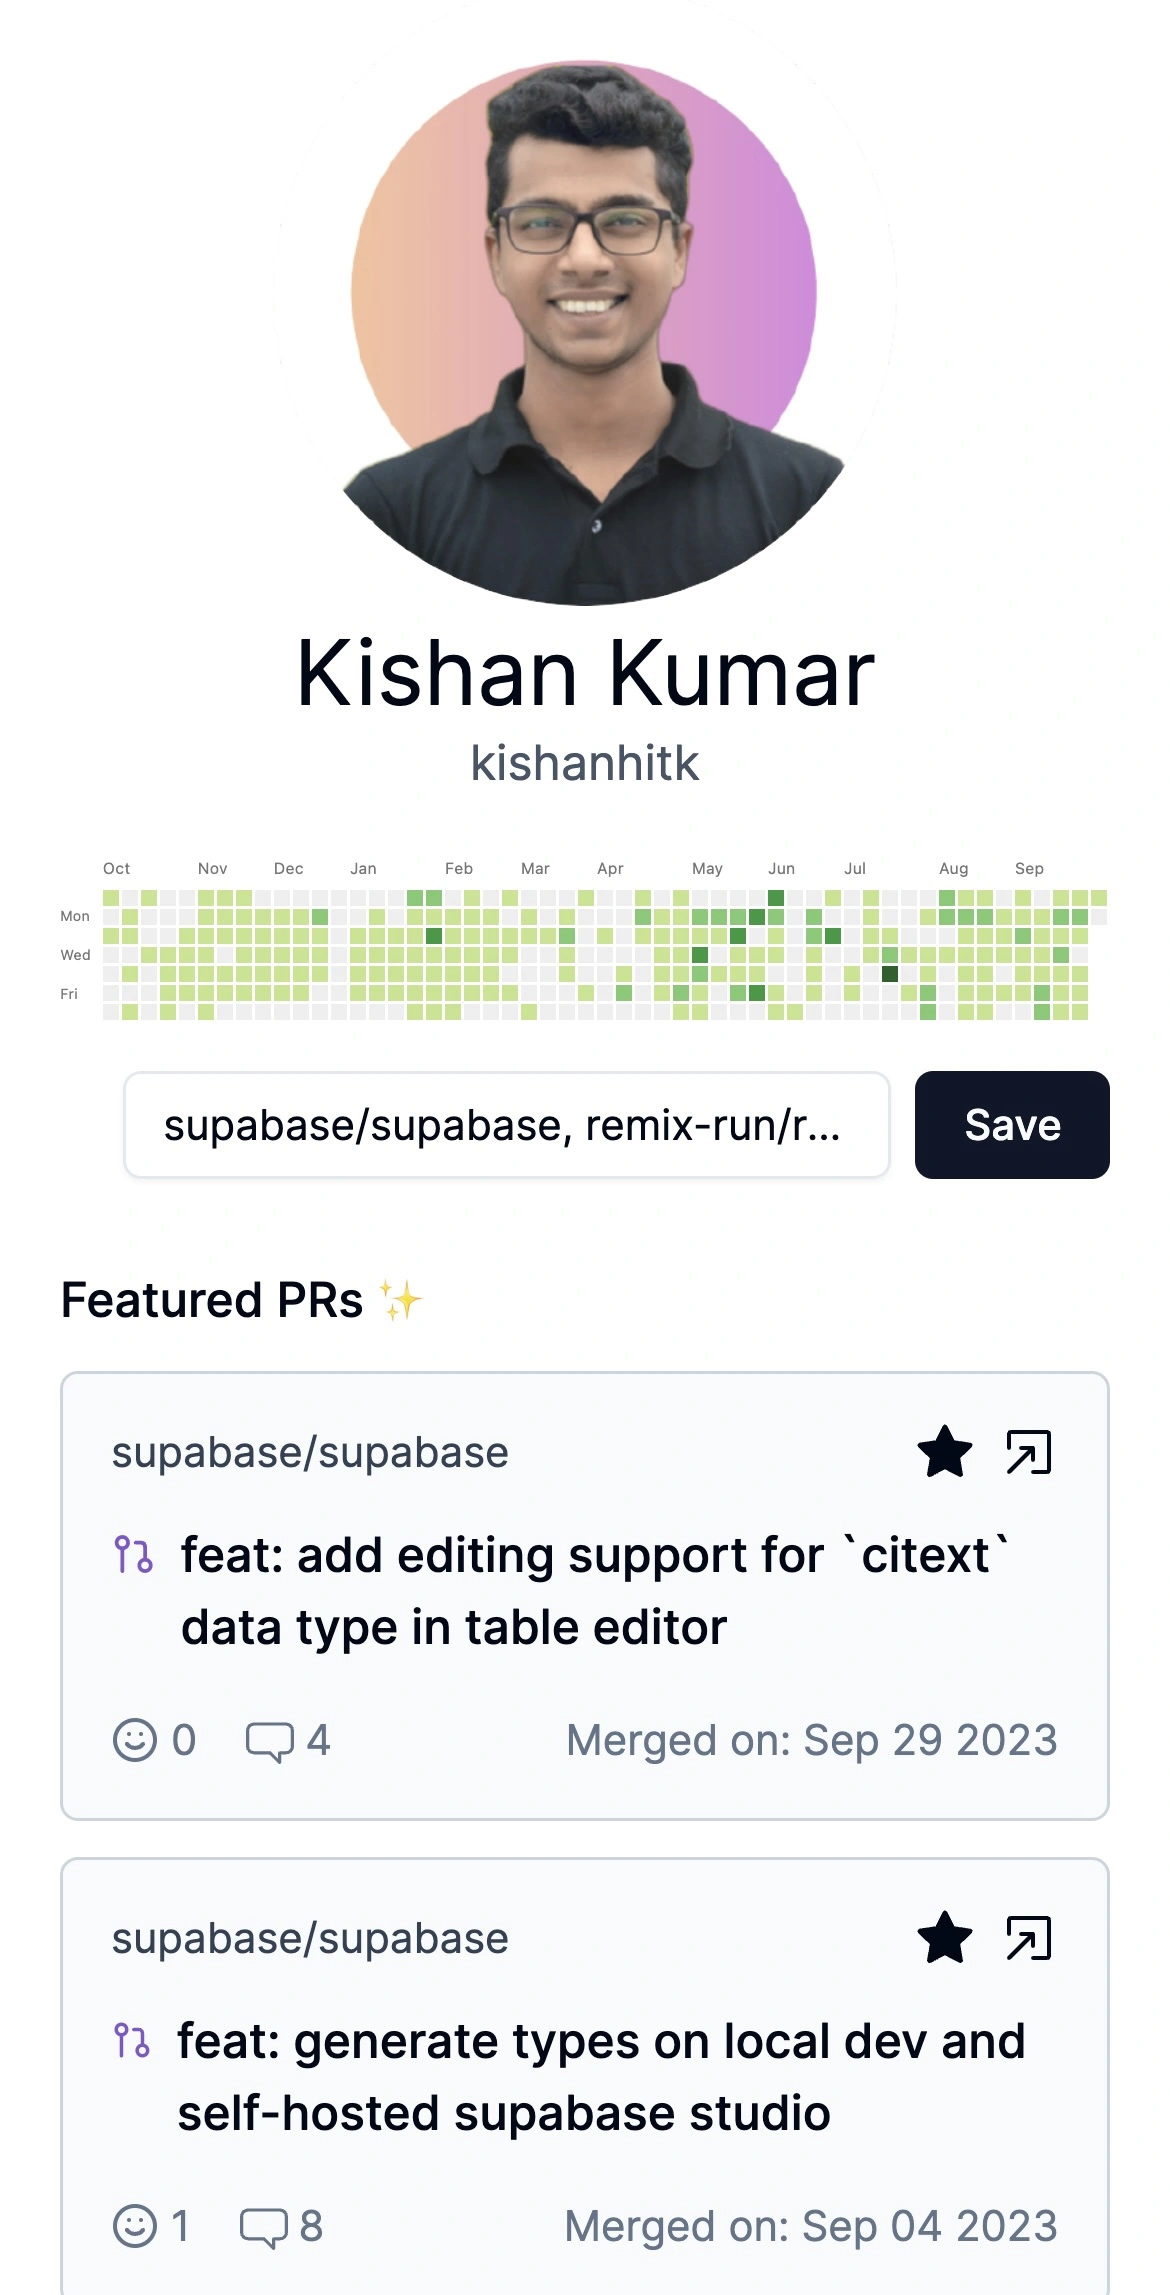
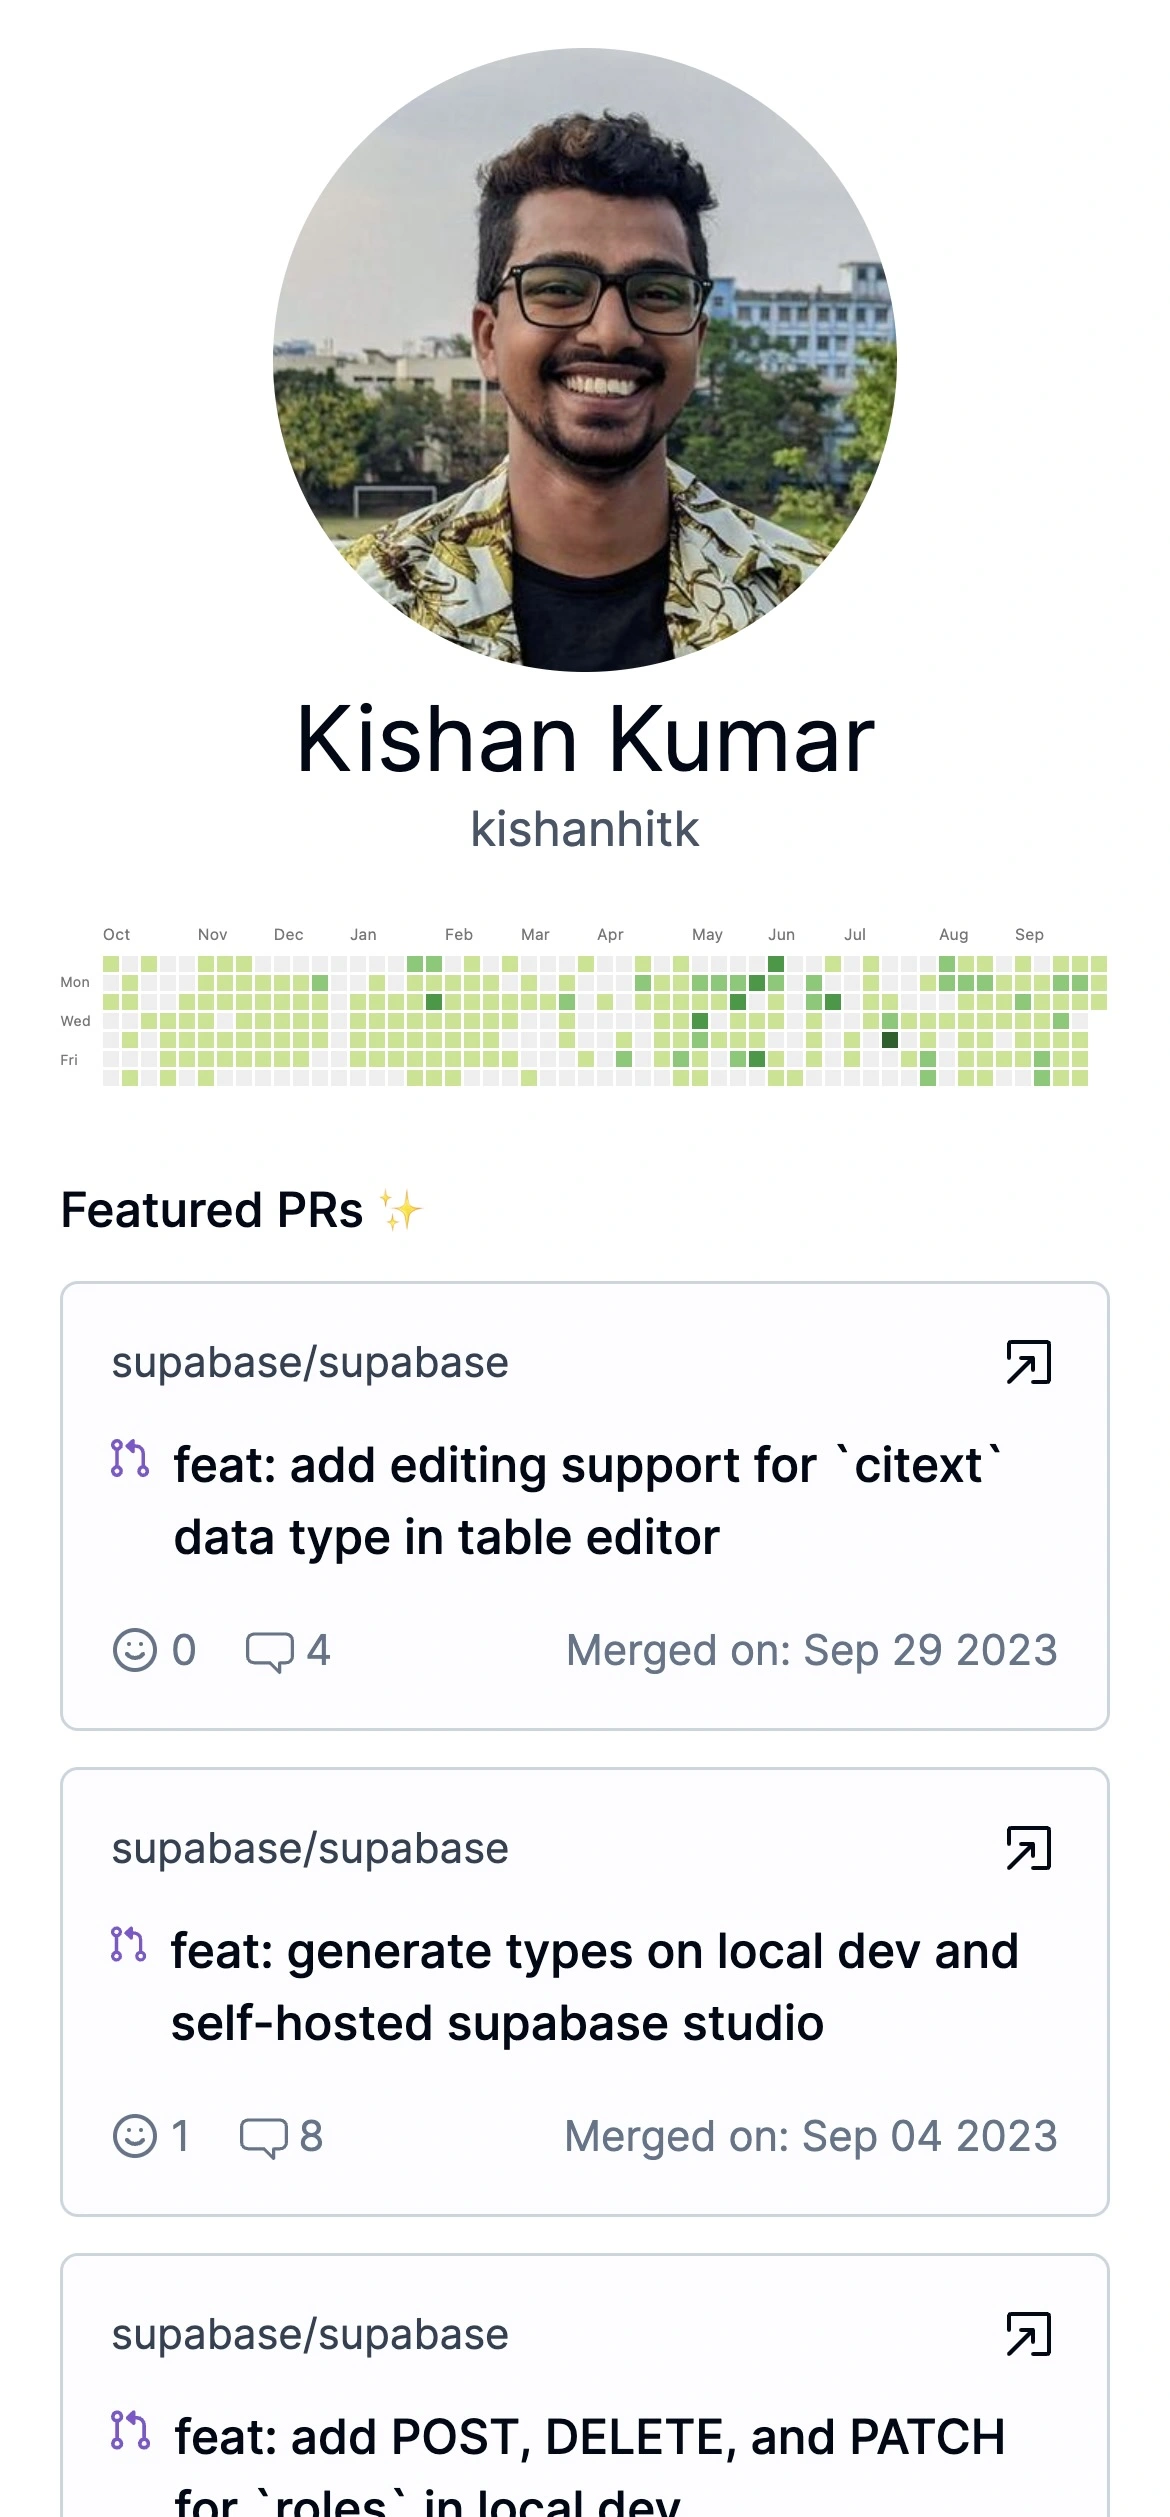
feat: update hero image

diff --git a/app/routes/_index.tsx b/app/routes/_index.tsx
@@ -100,7 +100,11 @@ export default function Index() {
         {userName ? (
           <Button asChild>
             <Link to={`/${userName}`} prefetch="render">
-              <img src={avatarUrl} className="h-6 w-6 mr-2" alt={userName} />
+              <img
+                src={avatarUrl}
+                className="h-6 w-6 mr-2 rounded-full"
+                alt={userName}
+              />
               Continue as {userName} -{">"}
             </Link>
           </Button>

diff --git a/app/components/custom/GithubCard2.tsx b/app/components/custom/GithubCard2.tsx
@@ -33,7 +33,7 @@ export function DemoGithub({
       initial={{ y: -300, opacity: 0 }}
       animate={{ y: 0, opacity: 1 }}
       exit={{ y: 300, opacity: 0 }}
-      className="my-3 border p-4 rounded-md border-slate-300 bg-slate-50"
+      className="my-3 border p-4 rounded-md border-slate-300 bg-slate-50/50"
     >
       <div className="space-y-3">
         <div className="flex">
